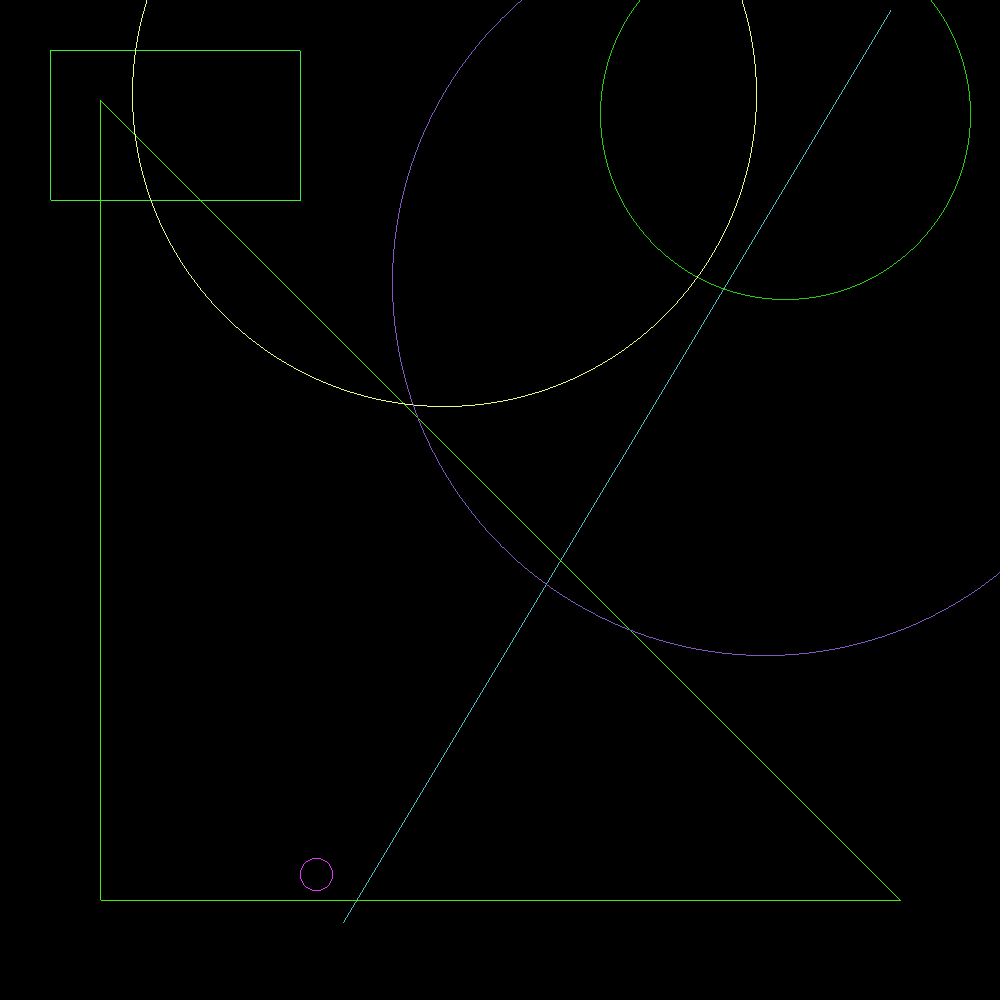
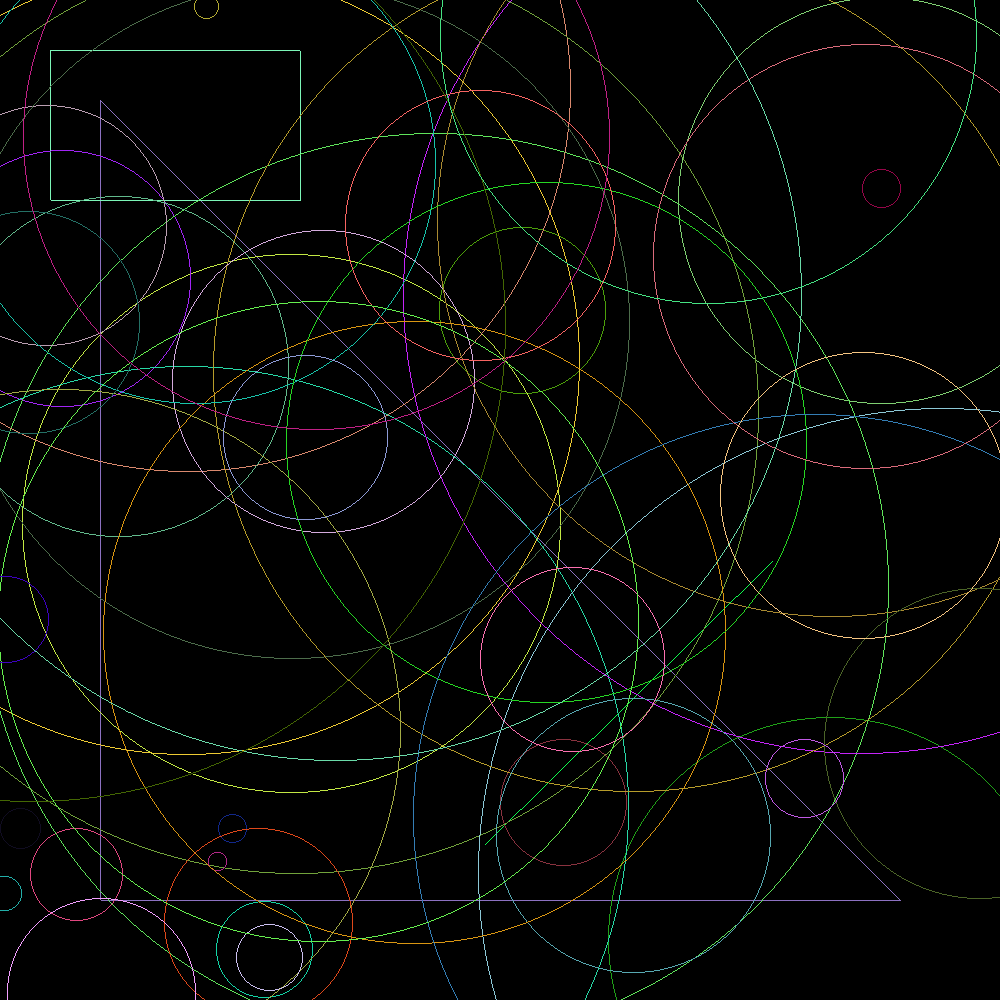
add random color generation to circle

diff --git a/geometrical_shapes/Circle.java b/geometrical_shapes/Circle.java
@@ -12,7 +12,8 @@ public class Circle implements Drawable {
     public Circle(Point center, int radius) {
         this.center = center;
         this.radius = radius;
-        this.color = Color.GREEN;
+        Random rand = new Random();
+        this.color = new Color(rand.nextInt(256), rand.nextInt(256), rand.nextInt(256));
     }
     
     public Circle(Point center, int radius, Color color) {
@@ -36,9 +37,7 @@ public class Circle implements Drawable {
         int x = 0;
         int y = -radius;
         int d = -radius;
-        
-        // drawCirclePoints(displayable, centerX, centerY, x, y);
-        
+
         while (x < -y) {
             if (d > 0) {
                 y++;

diff --git a/Main.java b/Main.java
@@ -13,7 +13,7 @@ public class Main {
         Rectangle rectangle = new Rectangle(new Point(50, 50), new Point(300, 200));
         rectangle.draw(image);
 
-        for (int i = 0; i < 4; i++) {
+        for (int i = 0; i < 50; i++) {
         Circle circle = Circle.random(image.getWidth(), image.getHeight());
         circle.draw(image);
         }
